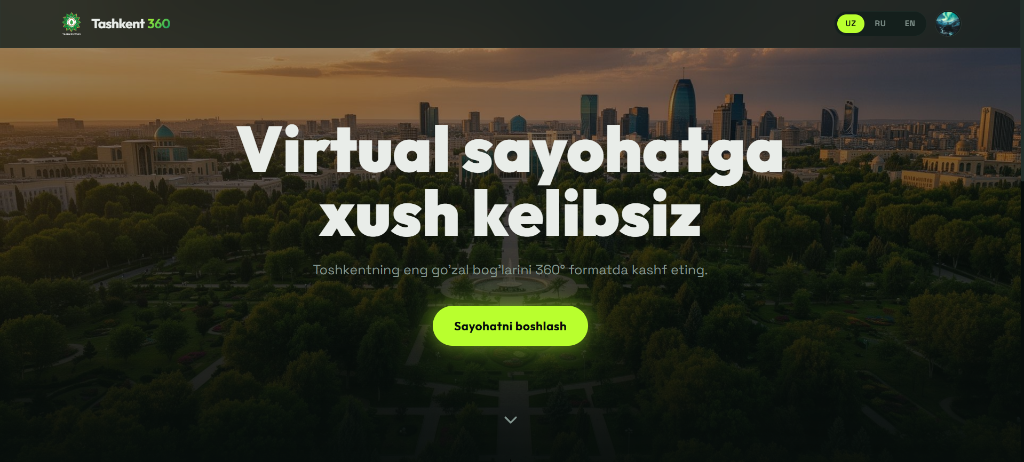
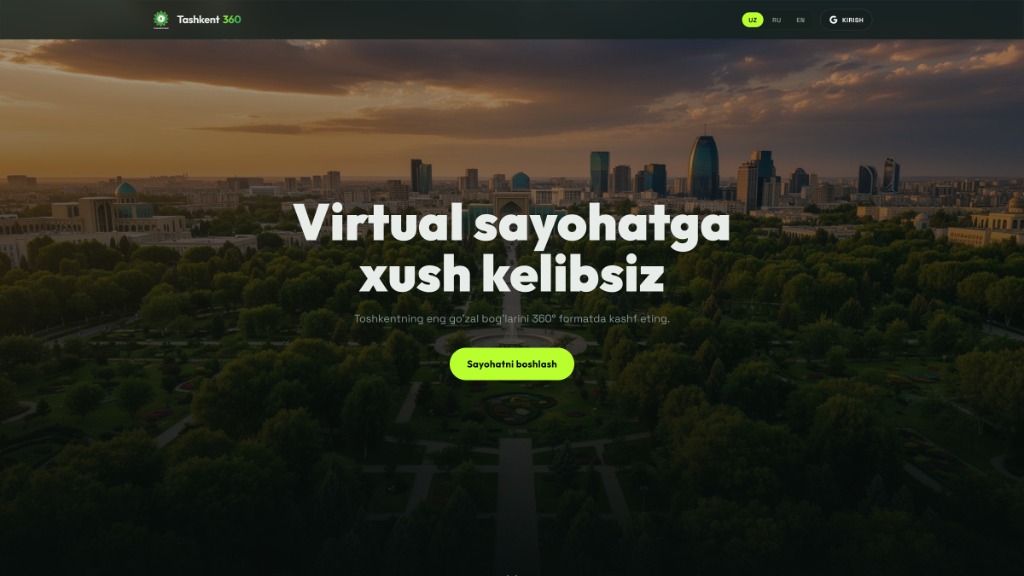
fix: change project card aspect ratio to 16:9 for perfect tashkentparks screenshot layout

diff --git a/src/components/BentoCard.tsx b/src/components/BentoCard.tsx
@@ -40,12 +40,12 @@ export function BentoCard({ project, index }: { project: Project; index: number 
           transition={{ duration: 0.3, ease: [0.22, 1, 0.36, 1] }}
           className="relative flex h-auto sm:h-full min-h-[300px] sm:min-h-[320px] flex-col overflow-hidden rounded-[24px] bg-surface hairline shadow-card transition-shadow duration-300 hover:shadow-card-hover"
         >
-          <div className="relative aspect-[4/3] sm:aspect-auto sm:h-[68%] min-h-[180px] sm:min-h-[200px] flex-1 overflow-hidden">
+          <div className="relative aspect-video flex-1 overflow-hidden bg-black/5">
             {project.slug === "tashkent-parks" ? (
               <img
                 src={tashkentparksImg}
                 alt={project.title}
-                className="h-full w-full object-cover object-top transition-transform duration-500 group-hover:scale-[1.03]"
+                className="h-full w-full object-cover object-top transition-transform duration-500 group-hover:scale-[1.02]"
               />
             ) : (
               <ProjectMockup
